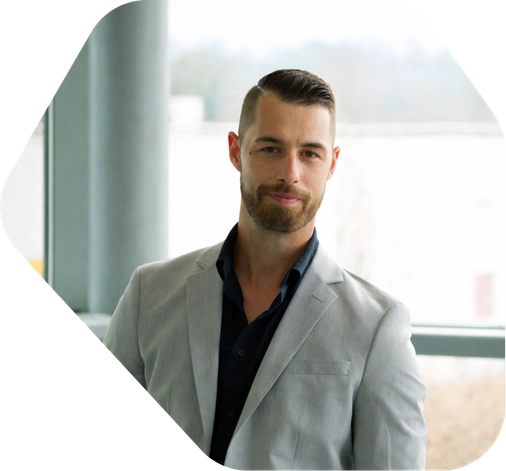
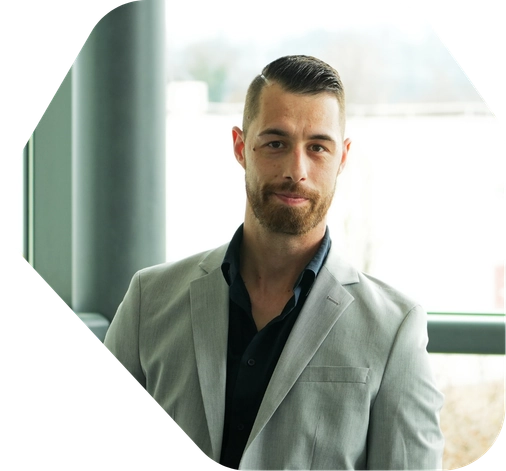
Karriere: neues Daniel-Bild, ohne Helligkeits-Filter, Porträt 5% kleiner
Made-with: Cursor

diff --git a/app/karriere/page.tsx b/app/karriere/page.tsx
@@ -133,14 +133,14 @@ export default function KarrierePage() {
           <div className="mx-auto flex w-full max-w-6xl justify-end">
             <div className="flex flex-col items-center gap-6 text-center scale-100 origin-top lg:scale-[0.84] lg:origin-top lg:w-[50%]">
               <div className="flex w-full flex-col items-center">
-                <div className="relative isolate w-[84%] max-w-[84%] overflow-visible rounded-none bg-[#FAFBFC] lg:max-w-[84%]">
+                <div className="relative isolate w-[79.8%] max-w-[79.8%] overflow-visible rounded-none bg-[#FAFBFC] lg:max-w-[79.8%]">
                   <Image
                     src="/images/Daniel_Niebauer.webp"
                     alt="Daniel Niebauer – Alltagshilfe-Süd"
                     width={1080}
                     height={1350}
-                    className="h-auto w-full object-contain object-center mix-blend-multiply [filter:brightness(1.1)_drop-shadow(0_10px_22px_rgba(15,79,104,0.2))_drop-shadow(0_4px_12px_rgba(15,79,104,0.12))] [will-change:filter]"
-                    sizes="(max-width: 1024px) 84vw, 40vw"
+                    className="h-auto w-full object-contain object-center mix-blend-multiply [filter:drop-shadow(0_10px_22px_rgba(15,79,104,0.2))_drop-shadow(0_4px_12px_rgba(15,79,104,0.12))] [will-change:filter]"
+                    sizes="(max-width: 1024px) 80vw, 38vw"
                   />
                 </div>
                 <div
@@ -334,14 +334,14 @@ export default function KarrierePage() {
             Bei Fragen zu unseren Stellen oder für Ihre Bewerbung – wir sind für Sie da.
           </p>
           <div className="mt-10 flex flex-col items-start gap-8 rounded-2xl border-2 border-[#0F4F68]/15 bg-[#F2F9FA]/60 p-8 sm:flex-row sm:items-center sm:gap-10 sm:p-10">
-            <div className="relative isolate w-[10.5rem] shrink-0 overflow-visible rounded-none sm:w-[12.6rem]">
+            <div className="relative isolate w-[9.975rem] shrink-0 overflow-visible rounded-none sm:w-[11.97rem]">
               <Image
                 src="/images/Daniel_Niebauer.webp"
                 alt="Daniel Niebauer – Personalreferent, Alltagshilfe-Süd"
                 width={1080}
                 height={1350}
-                className="h-auto w-full object-contain object-center mix-blend-multiply [filter:brightness(1.1)_drop-shadow(0_10px_22px_rgba(15,79,104,0.2))_drop-shadow(0_4px_12px_rgba(15,79,104,0.12))] [will-change:filter]"
-                sizes="(max-width: 640px) 168px, 202px"
+                className="h-auto w-full object-contain object-center mix-blend-multiply [filter:drop-shadow(0_10px_22px_rgba(15,79,104,0.2))_drop-shadow(0_4px_12px_rgba(15,79,104,0.12))] [will-change:filter]"
+                sizes="(max-width: 640px) 160px, 192px"
               />
             </div>
             <div className="min-w-0 flex-1">
